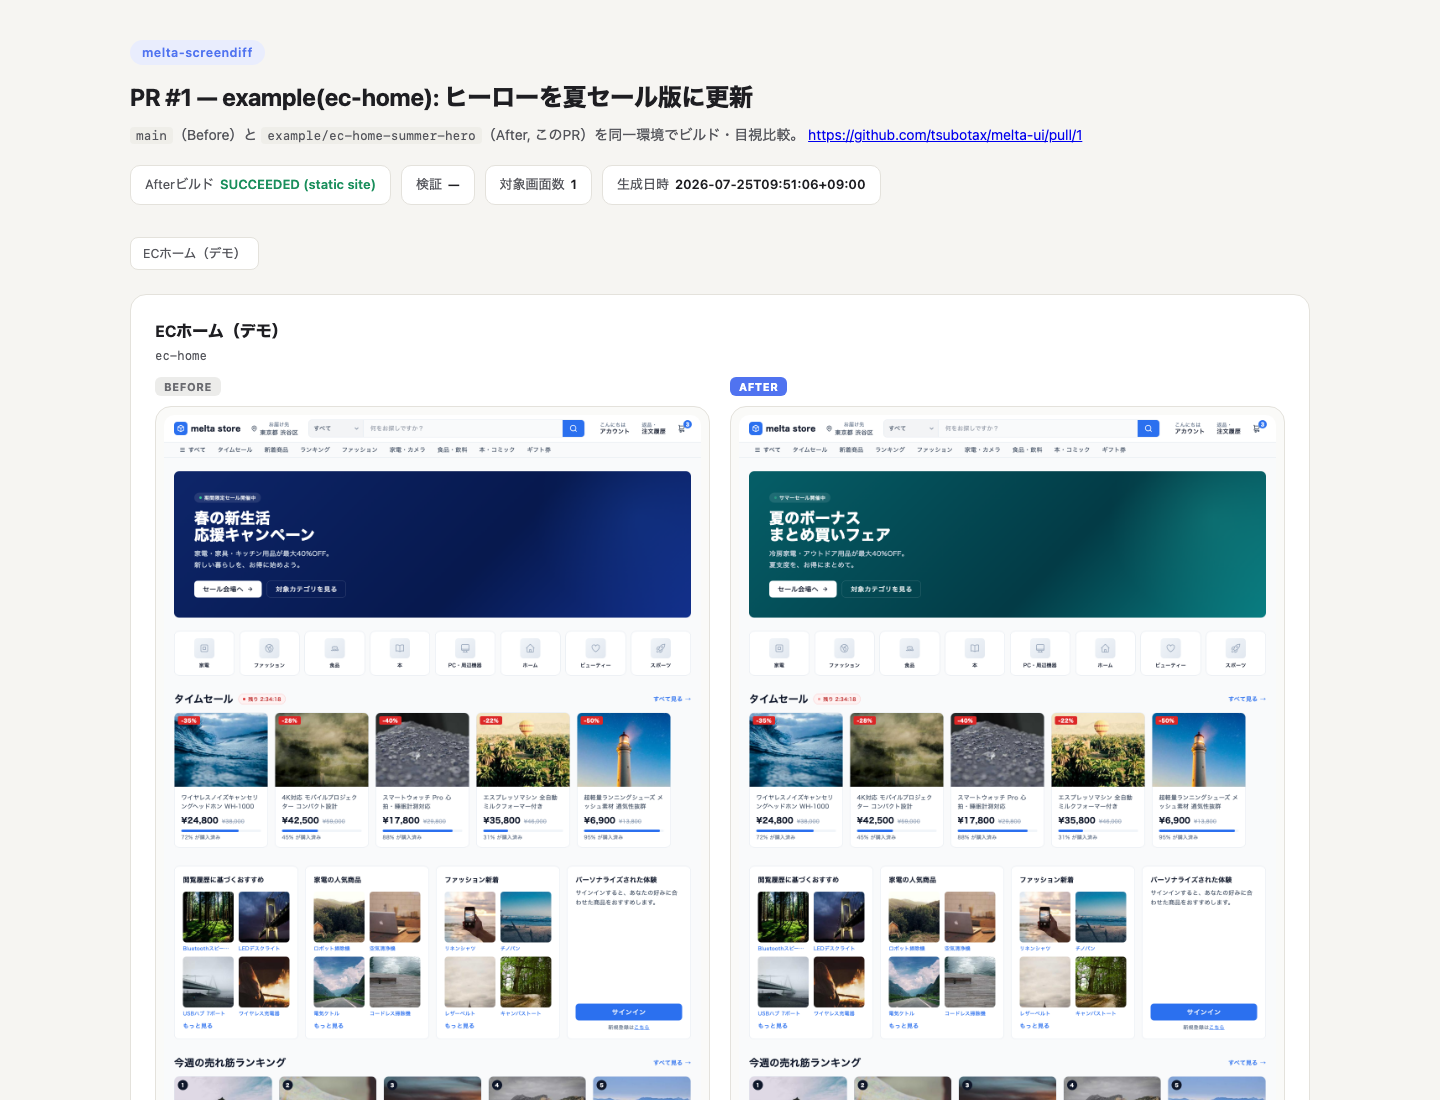
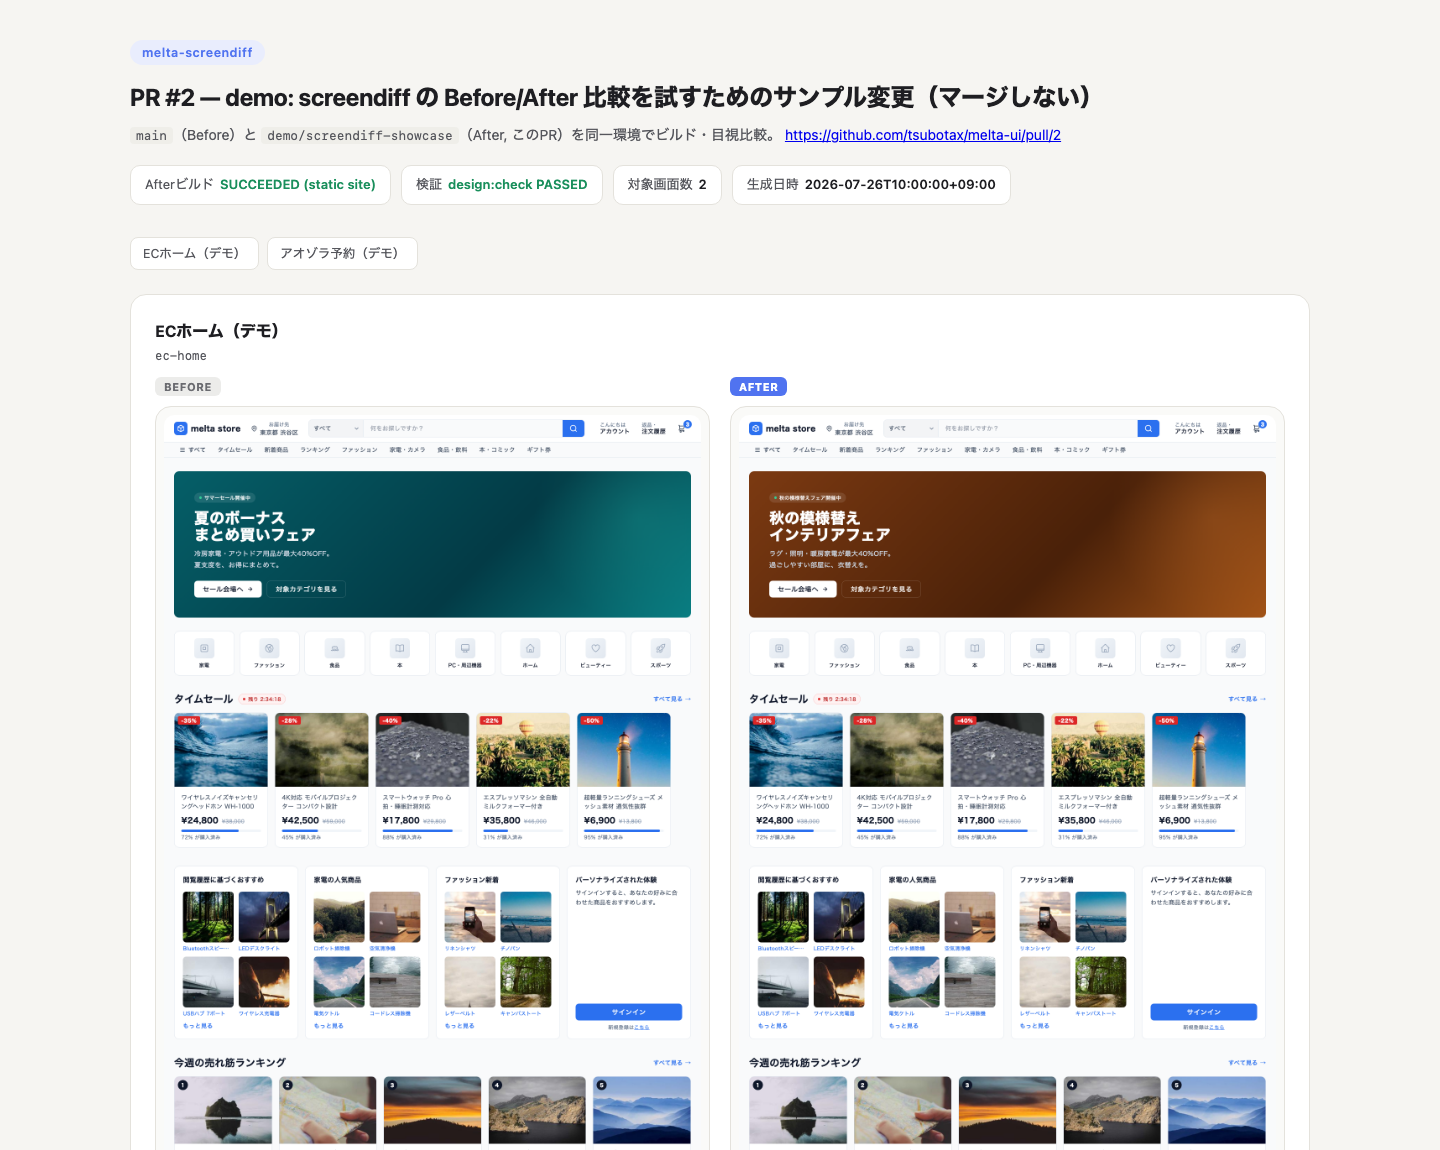
docs: 設定を書く前に試せる導線を追加（melta-ui のデモPR）
自リポジトリに設定を書くのが最初の離脱点だったため、体験を前倒しする。
melta-ui に .claude/screendiff.json とデモPR #2 を用意し、clone してすぐ
/screendiff:screendiff 2 を叩けるようにした（npm / build 不要の静的サイト）。

スクリーンショットもデモPR #2 の実行結果に差し替え（2画面変更なので、複数画面
解決と目次も同時に見える）。E2Eで実際に生成したものを掲載している。

diff --git a/README.md b/README.md
@@ -13,7 +13,7 @@ PR番号を渡すと、PRのbaseブランチ（Before）とPRブランチ（Afte
 
 ![Before/After比較HTMLの例](docs/images/comparison-example.png)
 
-実例: [melta-ui #1](https://github.com/tsubotax/melta-ui/pull/1)（ヒーローを春キャンペーン → 夏セールに変更したPR）。ビルド結果・検証状況・対象画面数をヘッダに出し、画面ごとに Before/After を横並びで表示する。対象画面が複数ある場合は上部の目次リンクから各画面へ飛べる。
+実例: [melta-ui #2](https://github.com/tsubotax/melta-ui/pull/2)（2画面を変更したデモPR）。ビルド結果・検証状況・対象画面数をヘッダに出し、画面ごとに Before/After を横並びで表示する。対象画面が複数ある場合は上部の目次リンクから各画面へ飛べる。
 
 ## インストール
 
@@ -21,6 +21,23 @@ PR番号を渡すと、PRのbaseブランチ（Before）とPRブランチ（Afte
 /plugin marketplace add tsubotax/melta-screendiff
 /plugin install screendiff@melta
 ```
+
+## まず試す（自分のリポジトリに設定を書く前に）
+
+[melta-ui](https://github.com/tsubotax/melta-ui) に設定ファイル（`.claude/screendiff.json`）とデモPRを用意してある。**静的HTMLを `python3 -m http.server` で配信するだけなので、npm install も build も不要**:
+
+```bash
+git clone https://github.com/tsubotax/melta-ui.git
+cd melta-ui
+```
+
+Claude Code をこのディレクトリで開いて:
+
+```
+/screendiff:screendiff 2
+```
+
+[PR #2](https://github.com/tsubotax/melta-ui/pull/2) は常設のデモPR（マージしない）。上のスクリーンショットと同じものが手元で生成される。
 
 ## 前提条件
 
